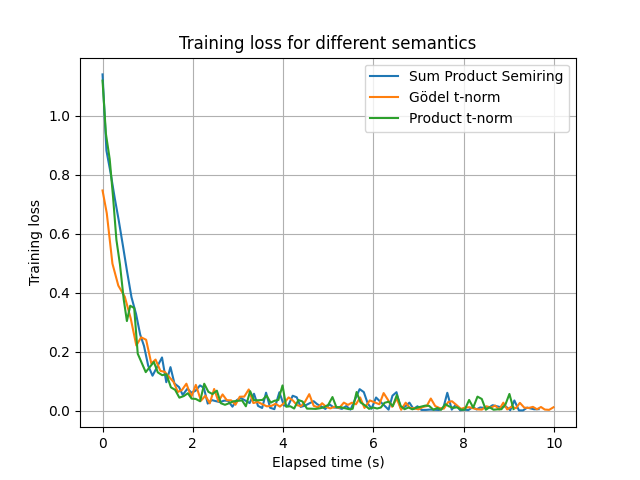
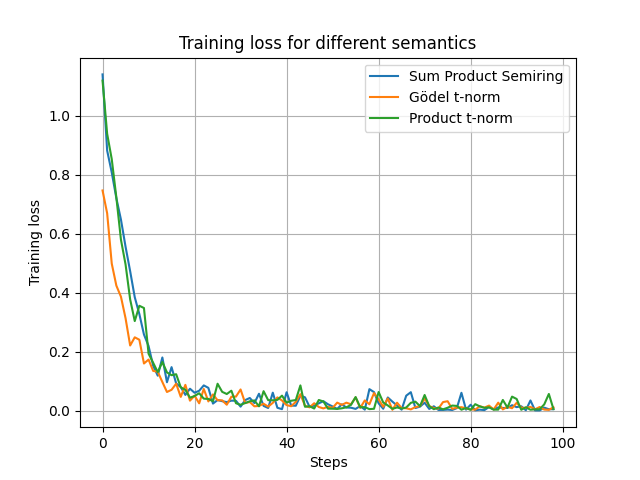
14/04

diff --git a/example/run2.py b/example/run2.py
@@ -1,0 +1,106 @@
+import sys
+import pathlib
+import os
+current = pathlib.Path().absolute()
+sys.path.insert(0,os.path.join(current, 'src'))
+
+from nesy.model import NeSyModel, MNISTEncoder
+from dataset import AdditionTask,BaseConverter
+from nesy.logic_optimized import ForwardChaining
+from nesy.semantics import SumProductSemiring, GodelTNorm, ProductTNorm, LukasieviczTNorm
+
+import torch
+import pytorch_lightning as pl
+from pytorch_lightning.loggers import TensorBoardLogger
+
+
+logger = TensorBoardLogger(save_dir="logs/", name="model")  
+
+# STEP 1: define the desired n_digits and n_classes
+n_digits = 3
+n_classes = 4
+
+#STEP 2: construct the train, test-set and the neural_predicates
+
+# STEP 3: define which caching you will use
+tree_caching = True
+use_nn_caching = True
+"""
+optim = 0
+optim_lr = torch.inf
+optim_bs = torch.inf"""
+optim = []
+optim_lr = []
+optim_bs = []
+
+#STEP 4: define if a validation set during training will be used to see the accuracy evolve over training
+# >> BUT if used, adds a lot of operations so makes the program a lot slower
+use_validation_set = False
+additional_logs_per_class = False
+#STEP 5: define the model + trainer +batch size
+
+for lr in [.005]:# [.0005,.001,.005,.01,.05,.1,.5,1]:
+    for bs in  [64]:
+        task_train = BaseConverter(n=n_digits,n_classes=n_classes)
+        task_test = BaseConverter(n=n_digits,n_classes=n_classes, train=False)
+
+        neural_predicates = torch.nn.ModuleDict({"digit": MNISTEncoder(task_train.n_classes)})
+        model = NeSyModel(program=task_train.program,
+                        logic_engine=ForwardChaining(tree_caching),
+                        neural_predicates=neural_predicates,
+                        label_semantics=SumProductSemiring(),
+                        learning_rate=lr,
+                        use_nn_caching=use_nn_caching,
+                        n_classes=n_classes,
+                        #nb_solutions=task_train.max_value_term+2,
+                        additional_logs_per_class=additional_logs_per_class)
+
+        if use_validation_set:
+            trainer = pl.Trainer(max_epochs=1,logger=logger,log_every_n_steps=1,val_check_interval=1)
+        else:
+            trainer = pl.Trainer(max_epochs=1,logger=logger,log_every_n_steps=1)
+        print(task_train.program)
+        #STEP 6: fit the model with train and validation data
+        import time
+        a = time.time()
+        trainer.fit(model=model,
+                    train_dataloaders=task_train.dataloader(batch_size=bs))#,
+                    #val_dataloaders=task_test.dataloader(batch_size=bs))
+        b = time.time()-a
+        dummy = trainer.validate(model = model,
+                            dataloaders = task_test.dataloader(batch_size = bs),
+                            verbose = True)
+        print("DUMMY", dummy)
+        accuracy = dummy[0]["test_acc_sum"]
+
+        """ if accuracy>optim:
+            optim = accuracy
+            optim_lr = lr
+            optim_bs = bs
+            print("Improved!")"""
+        optim.append(accuracy)
+        optim_lr.append(lr)
+        optim_bs.append(bs)
+
+
+        print("| FINAL JUDGEMENT:", accuracy, "| LR =", lr, "| BS =", bs,"|")
+
+import numpy as np
+optim = np.asarray(optim)
+optim_lr = np.asarray(optim_lr)
+optim_bs = np.asarray(optim_bs)
+
+print(np.vstack((optim, optim_lr, optim_bs)).T)
+
+
+print("| Optim :", optim, "| LR =", optim_lr, "| BS =", optim_bs,"|")
+print("LOGIC: ", model.sum)
+print("LOGIC DUring FIRST: ", model.sum2)
+print("TRAIN:", b)
+"""
+foraddition task: 3,3:
+    | Optim : 0.9723546234509056 | LR = 0.01 | BS = 32 |
+
+for baseconverter: 2,3:
+    | Optim : 0.9923736892278361 | LR = 0.005 | BS = 64 |
+    """

diff --git a/example/run3.py b/example/run3.py
@@ -1,0 +1,90 @@
+import sys
+import pathlib
+import os
+current = pathlib.Path().absolute()
+sys.path.insert(0,os.path.join(current, 'src'))
+
+from nesy.model import NeSyModel, MNISTEncoder
+from dataset import AdditionTask,BaseConverter
+from nesy.logic import ForwardChaining
+from nesy.semantics import SumProductSemiring, GodelTNorm, ProductTNorm, LukasieviczTNorm
+
+import torch
+import pytorch_lightning as pl
+from pytorch_lightning.loggers import TensorBoardLogger
+
+
+logger = TensorBoardLogger(save_dir="logs/", name="model")  
+
+# STEP 1: define the desired n_digits and n_classes
+n_digits = 2
+n_classes = 5
+
+#STEP 2: construct the train, test-set and the neural_predicates
+
+# STEP 3: define which caching you will use
+tree_caching = False
+use_nn_caching = False
+
+optim = 0
+optim_lr = torch.inf
+optim_bs = torch.inf
+
+#STEP 4: define if a validation set during training will be used to see the accuracy evolve over training
+# >> BUT if used, adds a lot of operations so makes the program a lot slower
+use_validation_set = False
+additional_logs_per_class = False
+#STEP 5: define the model + trainer +batch size
+
+for lr in [0.01]:#[.0005,.001,.005,.01,.05,.1,.5,1]:
+    for bs in  [32]:#[1,2,4,8,16,32,64,128,256,512,1024,2048]:
+        task_train = AdditionTask(n=n_digits,n_classes=n_classes)
+        task_test = AdditionTask(n=n_digits,n_classes=n_classes, train=False)
+
+        neural_predicates = torch.nn.ModuleDict({"digit": MNISTEncoder(task_train.n_classes)})
+        model = NeSyModel(program=task_train.program,
+                        logic_engine=ForwardChaining(tree_caching),
+                        neural_predicates=neural_predicates,
+                        label_semantics=SumProductSemiring(),
+                        learning_rate=lr,
+                        use_nn_caching=use_nn_caching,
+                        n_classes=n_classes,
+                        #nb_solutions=task_train.max_value_term+2,
+                        additional_logs_per_class=additional_logs_per_class)
+
+        if use_validation_set:
+            trainer = pl.Trainer(max_epochs=1,logger=logger,log_every_n_steps=1,val_check_interval=1)
+        else:
+            trainer = pl.Trainer(max_epochs=1,logger=logger,log_every_n_steps=1)
+        print(task_train.program)
+        #STEP 6: fit the model with train and validation data
+        import time
+        a = time.time()
+        trainer.fit(model=model,
+                    train_dataloaders=task_train.dataloader(batch_size=bs))#,
+                    #val_dataloaders=task_test.dataloader(batch_size=bs))
+                    
+        raise Exception(str(time.time()-a))
+        dummy = trainer.validate(model = model,
+                            dataloaders = task_test.dataloader(batch_size = bs),
+                            verbose = True)
+        print("DUMMY", dummy)
+        accuracy = dummy[0]["test_acc_sum"]
+
+        if accuracy>optim:
+            optim = accuracy
+            optim_lr = lr
+            optim_bs = bs
+            print("Improved!")
+
+        #print("| FINAL JUDGEMENT:", accuracy, "| LR =", lr, "| BS =", bs,"|")
+
+#print("| Optim :", optim, "| LR =", optim_lr, "| BS =", optim_bs,"|")
+raise Exception(str(model.sum))
+"""
+foraddition task: 3,3:
+    | Optim : 0.9723546234509056 | LR = 0.01 | BS = 32 |
+
+for baseconverter: 2,3:
+    | Optim : 0.9923736892278361 | LR = 0.01 | BS = 8 |
+    """

diff --git a/figures/csvToPlotRunningTimeClassesBC.py b/figures/csvToPlotRunningTimeClassesBC.py
@@ -1,0 +1,65 @@
+import pathlib
+import os
+current = pathlib.Path().absolute()
+
+import csv
+import matplotlib.pyplot as plt
+import numpy as np
+
+classes = ["(2,2)",
+           "(2,3)",
+           "(2,4)",
+           "(2,5)",
+           "(2,6)",
+           "(2,7)",
+           "(3,2)", 
+           "(3,3)"]
+times = [
+    [  3.6803269386291504,
+    9.116119146347046,
+    15.956370830535889,
+    42.46424627304077,
+    140.4936068058014,
+    402.9000585079193,
+    23.10112428665161,
+    541.6563320159912],
+    [0.14037394523620605,
+    1.2582225799560547,
+    6.494197607040405,
+    29.563303470611572,
+    114.60446190834045,
+    366.90204787254333,
+    18.960294723510742,
+    535.5727488994598]
+]
+title = "Execution time for different BaseConverter task instances"
+xlabel = "(Number of Digits, Number of Classes)"
+ylabel = "Training time (s)"
+savename = "figures\img\RunningTimeClassesBC.png"
+
+
+fig, ax = plt.subplots(layout='constrained')
+
+xs =np.arange(len(classes))
+width = .2
+multiplier = 0
+
+# code inspired by https://matplotlib.org/stable/gallery/lines_bars_and_markers/barchart.html#sphx-glr-gallery-lines-bars-and-markers-barchart-py
+offset = width
+multiplier = 0
+for i in range(2):
+    rects = ax.bar(xs+offset*multiplier+width/2, times[i], width)
+    #ax.set_yscale('log')
+    #ax.bar_label(rects, padding=3)
+    multiplier += 1
+plt.ylim([0,600])
+
+plt.title(title)
+plt.xlabel(xlabel)
+plt.ylabel(ylabel)
+ax.set_xticks(xs + width, classes)
+plt.grid()
+plt.legend(["Training time", "Execution time of logic engine"])
+plt.savefig(savename)
+plt.show()
+plt.close()

diff --git a/figures/csvToPlotRunningTimeClasses.py b/figures/csvToPlotRunningTimeClasses.py
@@ -33,19 +33,16 @@ width = .2
 multiplier = 0
 
 # code inspired by https://matplotlib.org/stable/gallery/lines_bars_and_markers/barchart.html#sphx-glr-gallery-lines-bars-and-markers-barchart-py
-for i in range(len(times)):
-    offset = 0#width * multiplier
-    rects = ax.bar(xs+offset, times[i], width)
-    #ax.set_yscale('log')
-    #ax.bar_label(rects, padding=3)
-    multiplier +=1
-
+offset = 0
+rects = ax.bar(xs+offset, times, width)
+ax.set_yscale('log')
+ax.bar_label(rects, padding=3)
+plt.ylim([0,3200])
 
 plt.title(title)
 plt.xlabel(xlabel)
 plt.ylabel(ylabel)
 ax.set_xticks(xs + width, classes)
 plt.grid()
-plt.show()
 plt.savefig(savename)
 plt.close()

diff --git a/figures/csvToPlotSemanticsWithouTluka.py b/figures/csvToPlotSemanticsWithouTluka.py
@@ -7,12 +7,12 @@ import matplotlib.pyplot as plt
 
 filename = ["train_loss_semiring", "Sum Product Semiring",
             "train_loss_godel", "Gödel t-norm",
-            "train_loss_product", "Product t-norm",
-            "train_loss_lukasievicz", "Łukasiewicz t-norm"]
+            "train_loss_product", "Product t-norm"]
+            #"train_loss_lukasievicz", "Łukasiewicz t-norm"]
 title = "Training loss for different semantics"
 xlabel = "Steps"
 ylabel = "Training loss"
-savename = "figures\img\TrainLossSemantics.png"
+savename = "figures\img\TrainLossSemanticsWithoutLuka.png"
 
 
 plt.figure()

diff --git a/src/nesy/logic_optimized.py b/src/nesy/logic_optimized.py
@@ -155,6 +155,9 @@ class ForwardChaining(LogicEngine):
             atomicSentences.update(new)
             structuredAtomicSentences.update(newstructuredAtomicSentences)
 
+        for m in atomicSentences.keys():
+            self.cache_of_trees[m] = atomicSentences[m][1]
+
         # Return the constructed tree for each query in queries.
         # If not tree has been constructed for a query, it means it has no derivation and thus is always false.
             # So that is equivalent to a fact node of weight 0.
